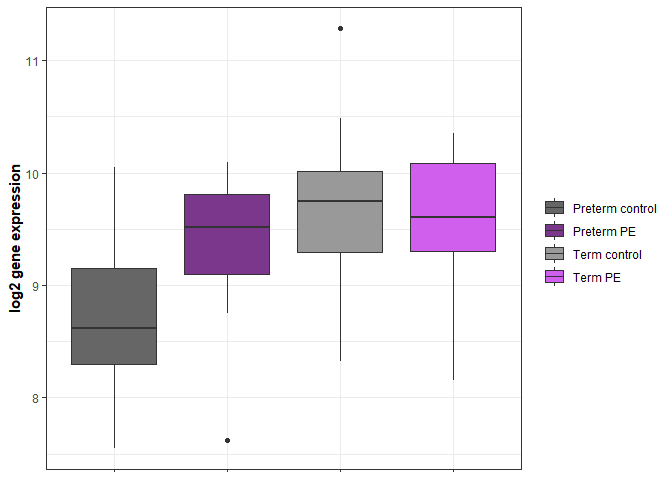
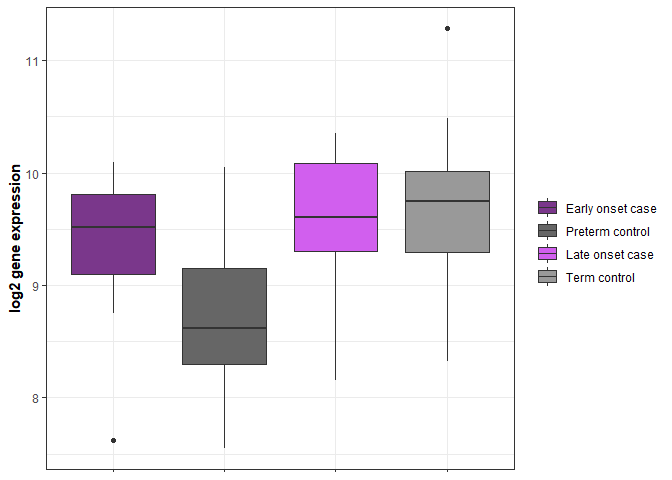
corrected colors/grouping order and legend title for male DLX 5 figure

diff --git a/CoLab_nanostring_imprint_limma.md b/CoLab_nanostring_imprint_limma.md
@@ -1001,7 +1001,7 @@ Boxplots<-Genes%>%
   mutate(Case.status=ifelse(Case.status=="Term PE","Late onset case",
                             ifelse(Case.status=="Preterm PE","Early onset case",as.character(Case.status))),
          Case.status=factor(Case.status,levels=c("Early onset case","Preterm control","Late onset case","Term control")))%>%
-  drop_na()%>%
+  drop_na()%>% #drop males
   gather(Genes,Value,-c(ID,Case.status))
 
 
@@ -1038,12 +1038,15 @@ male_DLX5_boxplot<-Genes%>%
   mutate(ID=rowname)%>%
   left_join(Covariates_male)%>%
   select(ID,DLX5,Case.status)%>%
-  drop_na()%>% #drop females
+  mutate(Case.status=ifelse(Case.status=="Term PE","Late onset case",
+                            ifelse(Case.status=="Preterm PE","Early onset case",as.character(Case.status))),
+         Case.status=factor(Case.status,levels=c("Early onset case","Preterm control","Late onset case","Term control")))%>%
+  drop_na()%>%
   ggplot(.,aes(x=Case.status,y=DLX5,fill=Case.status))+
   geom_boxplot()+
   theme_bw()+
   labs(y="log2 gene expression")+
-  scale_fill_manual(values=c("grey40","mediumorchid4","grey60","mediumorchid2"))+
+  scale_fill_manual(values=c("mediumorchid4","grey40","mediumorchid2","grey60"))+
   theme(axis.text.x=element_blank(),
         axis.title.x=element_blank(),
         axis.title.y=element_text(face="bold"),
